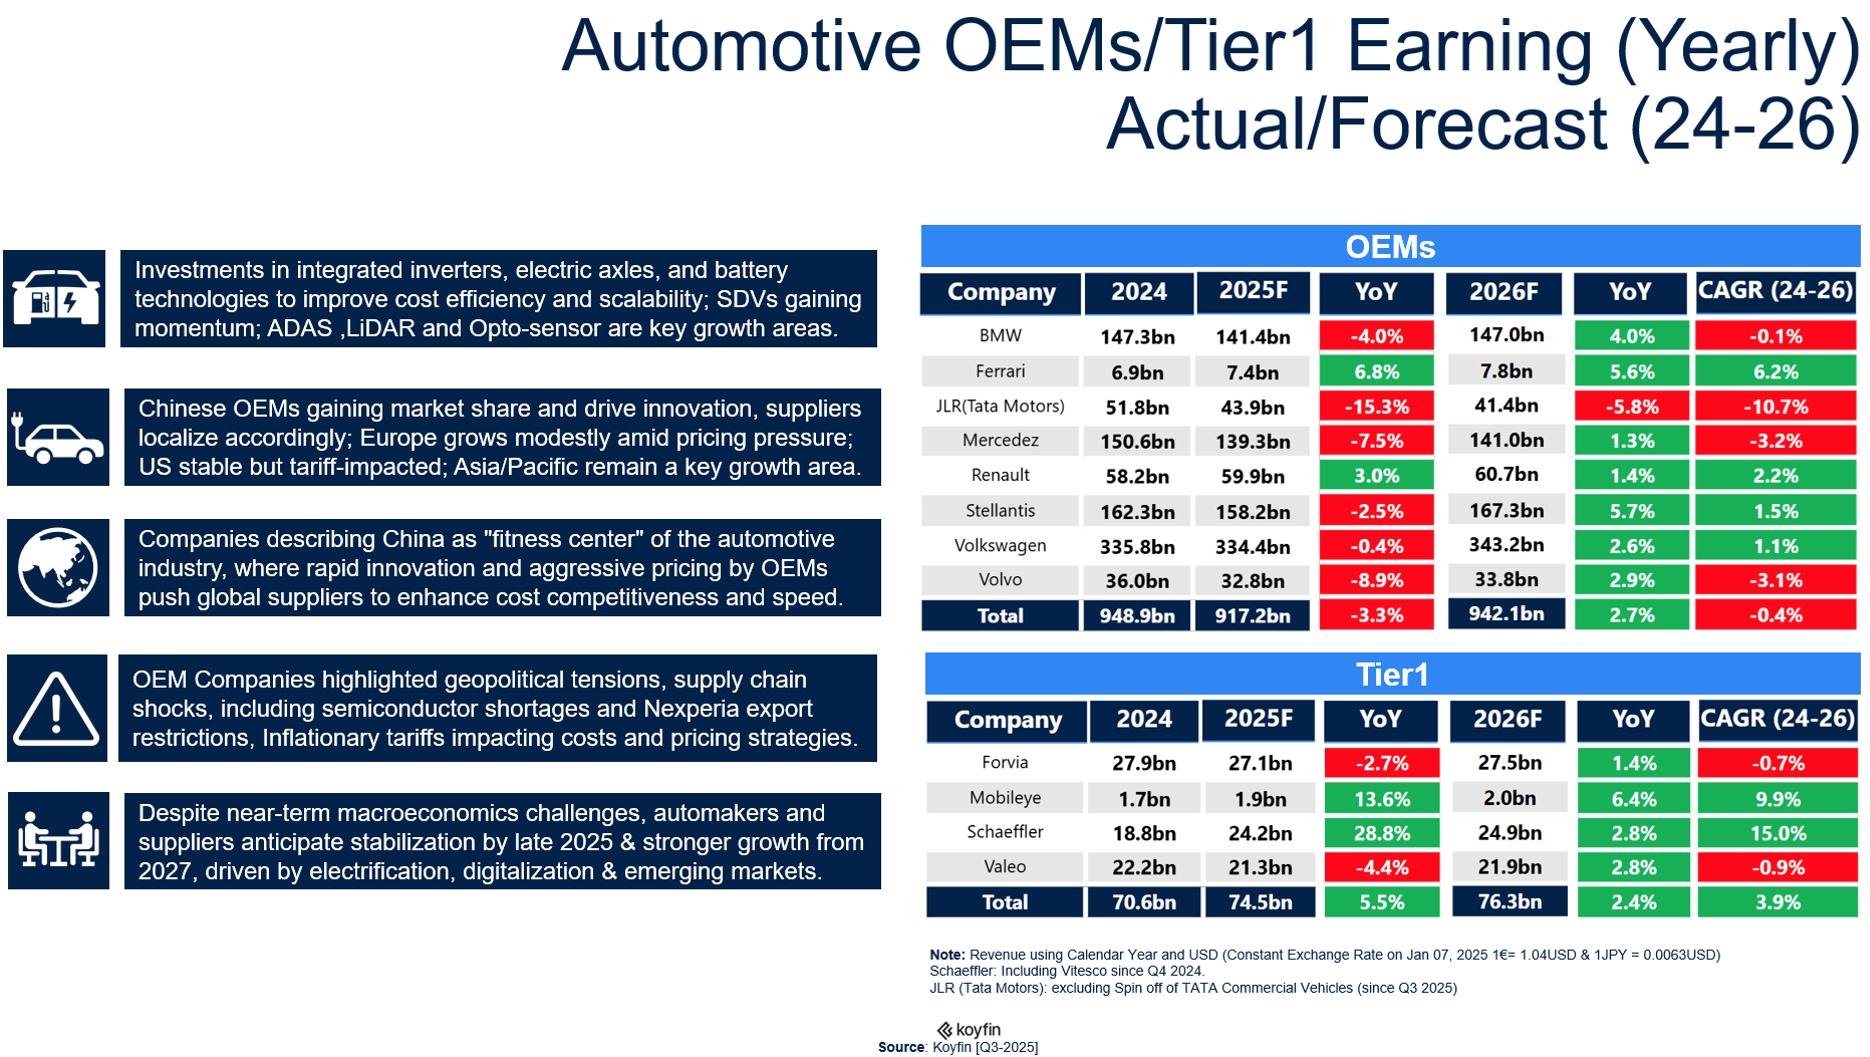
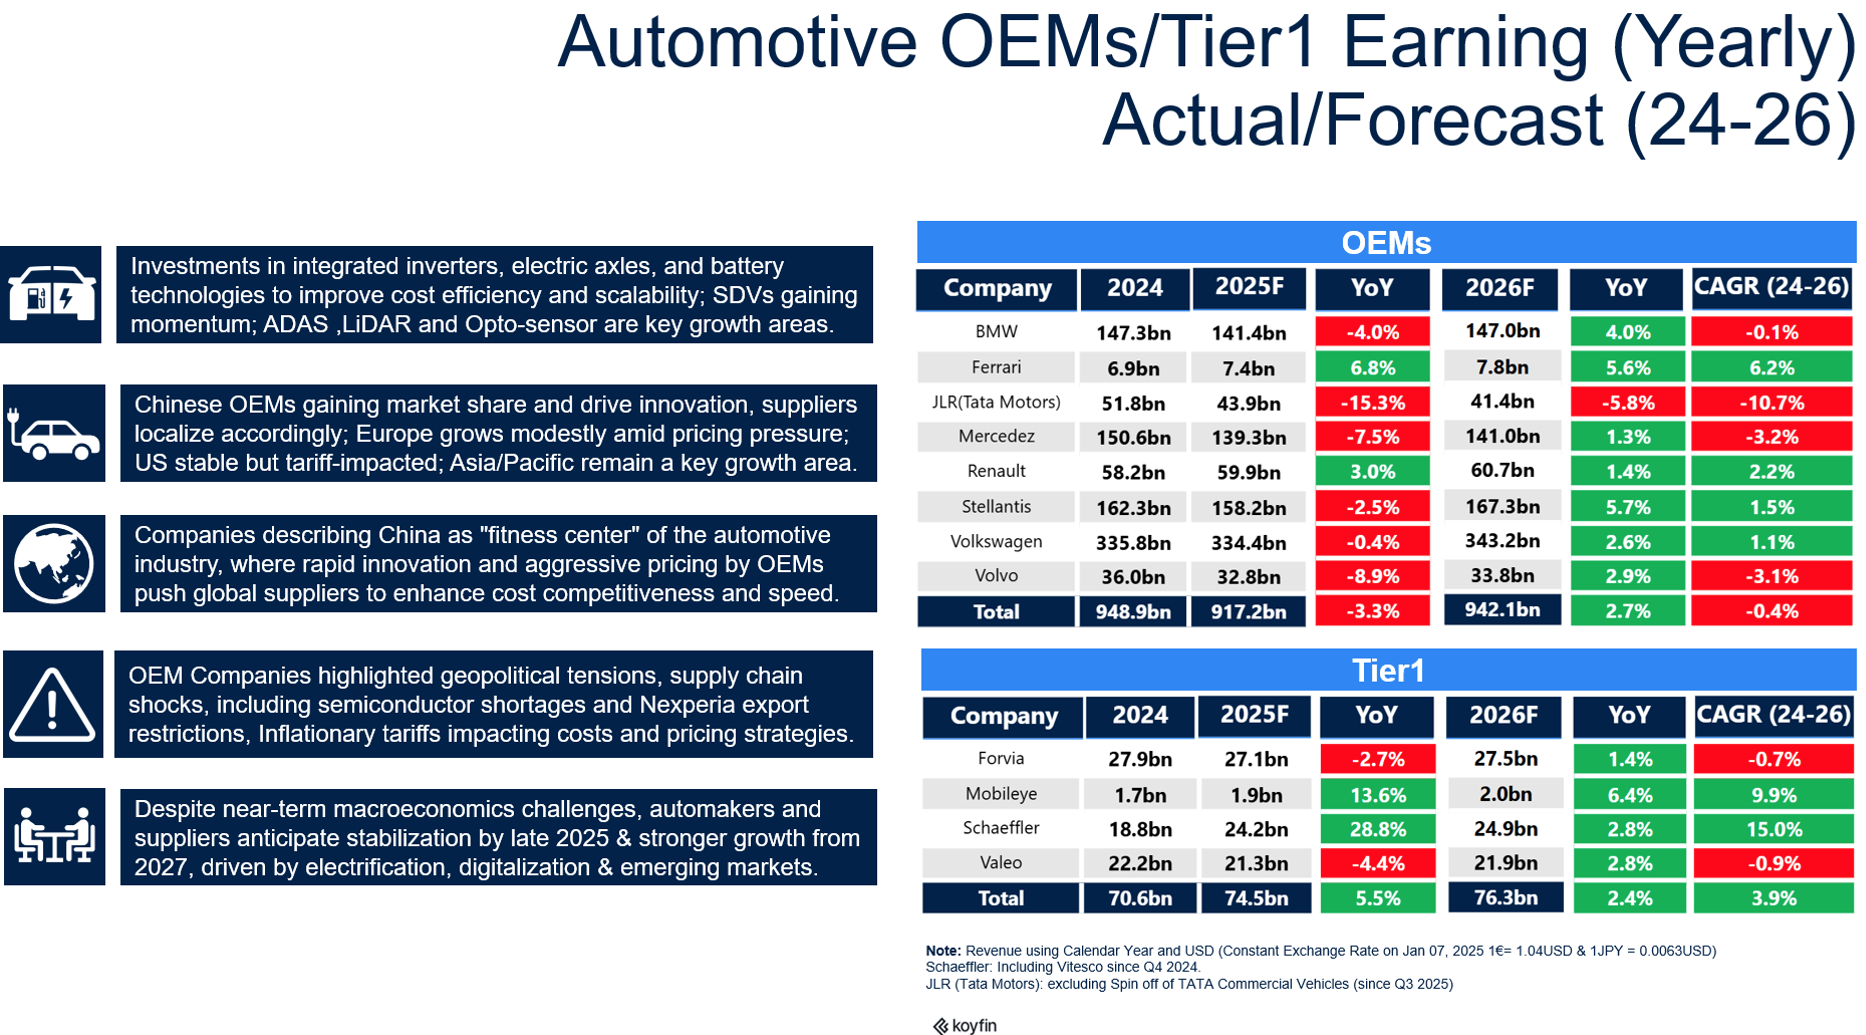
Fix dark letterbox backgrounds, refresh images, add macro exhibits
- Raise the edge-color fallback threshold significantly so any
  medium-to-dark sampled edge (not just near-black) now falls back
  to the site's light cream tone. Verified light backgrounds across
  every gallery image on every page.
- Refresh higher-quality re-exports of the automotive/industrial
  customer and competitor earnings images
- Add 4 clean macro exhibits to AI-Enabled Market Intelligence:
  PMI, inflation, industrial production, and US tariff evolution

diff --git a/projects/project-2.html b/projects/project-2.html
@@ -144,6 +144,30 @@
         </div>
         <p class="gallery-caption">The macroeconomic overlay, GDP growth by region, layered in alongside PMI and other indices so competitor performance is always read in context, not in isolation.</p>
       </div>
+      <div>
+        <div class="gallery-item has-image">
+          <img src="../assets/images/projects/project-2/macro-pmi.png" alt="Purchasing Manager Index by sector and by region, showing expansion and contraction zones">
+        </div>
+        <p class="gallery-caption">PMI by sector and by region, the leading indicator that flags a demand shift before it shows up in a competitor's own reported numbers.</p>
+      </div>
+      <div>
+        <div class="gallery-item has-image">
+          <img src="../assets/images/projects/project-2/macro-inflation.png" alt="Headline and core inflation year over year across major economies">
+        </div>
+        <p class="gallery-caption">Headline and core inflation across major economies, tracked monthly, since pricing power and margin pressure both move with it.</p>
+      </div>
+      <div>
+        <div class="gallery-item has-image">
+          <img src="../assets/images/projects/project-2/macro-industrial-production.png" alt="Industrial production year over year by country">
+        </div>
+        <p class="gallery-caption">Industrial production by country, the closest macro proxy for the industrial customer demand this platform exists to forecast.</p>
+      </div>
+      <div>
+        <div class="gallery-item has-image">
+          <img src="../assets/images/projects/project-2/macro-us-tariffs.png" alt="Evolution of US tariffs by country from April to August 2025">
+        </div>
+        <p class="gallery-caption">US tariff evolution by country, tracked as it changes, since a tariff shift can move a competitor's regional cost base faster than any earnings release will.</p>
+      </div>
     </div>
 
   </div>

diff --git a/assets/js/main.js b/assets/js/main.js
@@ -200,12 +200,14 @@ document.addEventListener("DOMContentLoaded", function () {
         // Cross-origin or decode failure: keep the default background.
       }
     }
-    // Dark-themed screenshots (e.g. a code editor UI) sample to near-black,
-    // which clashes with the site's light cream/white card design. Fall back
-    // to the site's own cream tone whenever the sampled edge is too dark to
-    // read as an intentional match rather than a jarring outlier.
+    // Dashboard screenshots often have dark headers, navy table rows, or
+    // dark-theme UI chrome right at their edge, which read as an ugly black
+    // band once sampled. The site's card design is light cream/white, so
+    // only let a sampled edge through when it is ALREADY light; anything
+    // else (dark, medium, or saturated) falls back to the site's own cream
+    // tone instead of trying to match the image.
     var FALLBACK_LIGHT = "rgb(250,246,242)";
-    var DARK_LUMINANCE_THRESHOLD = 60;
+    var DARK_LUMINANCE_THRESHOLD = 200;
     function averageRowColor(data) {
       var r = 0,
         g = 0,